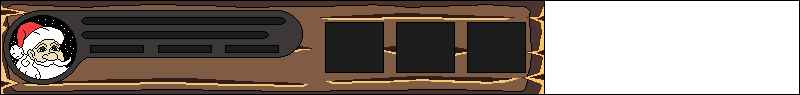
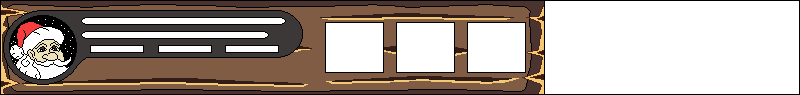
now the magic bar works in UI

diff --git a/js/Sleigh.js b/js/Sleigh.js
@@ -254,13 +254,10 @@ Sleigh.prototype.renderMagicBar = function(ctx){
 	ctx.font = "10px Arial";
 	ctx.fillText("Magic",5,12);
 	//ctx.restore();
-	ctx.rect(5,18,100,6);
-	ctx.strokeStyle = 'white';
-	ctx.stroke();
-	if(this.magic >= 100) {
-		this.magic = 100;
+	if(this.magic >= 200) {
+		this.magic = 200;
 	}
-	ctx.fillRect(5,18,this.magic,6);
+	ctx.fillRect(81,524,this.magic,9);
 
 };
 

diff --git a/index.html b/index.html
@@ -48,8 +48,7 @@
     <script src="./js/imagesPreload.js"></script>
     <script src="./js/createSprites.js"></script>
     <script src="./js/main.js"></script>
-	<script src="./js/test.js"></script>
-	
+
     <script src="./js/ASTEROIDS.js"></script>
 
   

diff --git a/js/entityManager.js b/js/entityManager.js
@@ -325,7 +325,7 @@ render: function(ctx) {
         }
         debugY += 10;
     }
-	test.render(ctx);
+	
 	if(entityManager.isPlayerDead() && entityManager.gameHasStarted){
         entityManager.gameIsWon = false;
 		this.renderGameLost(ctx);	

diff --git a/js/Player.js b/js/Player.js
@@ -2,8 +2,8 @@ var Player = {
 //Private Data
 _Strength: 10.00,
 _Speed: 3.00,
-_magicCapacity: 100,
-_magicComsuption: -0.05,
+_magicCapacity: 200,
+_magicComsuption: -0.1, //0.05
 _magnetRadius: 300,
 _luck: 10,
 _piercing: 1,
